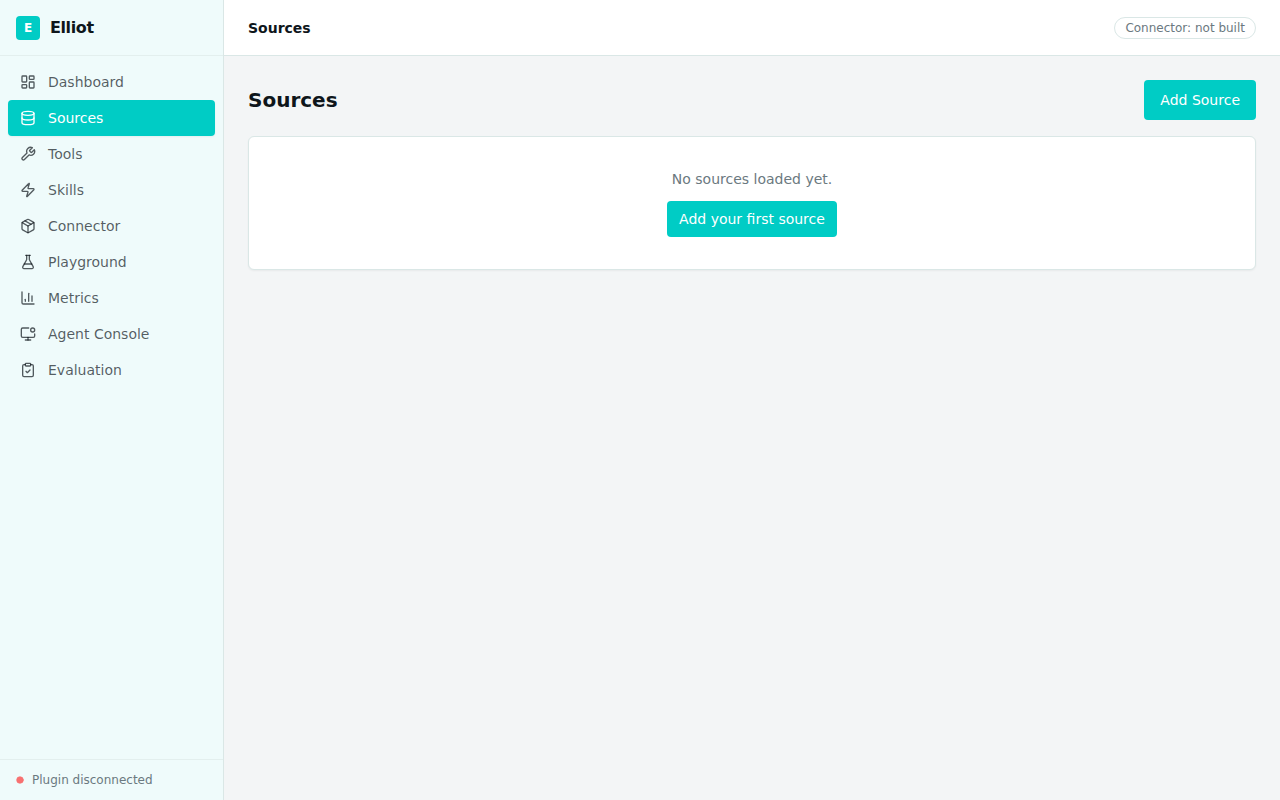
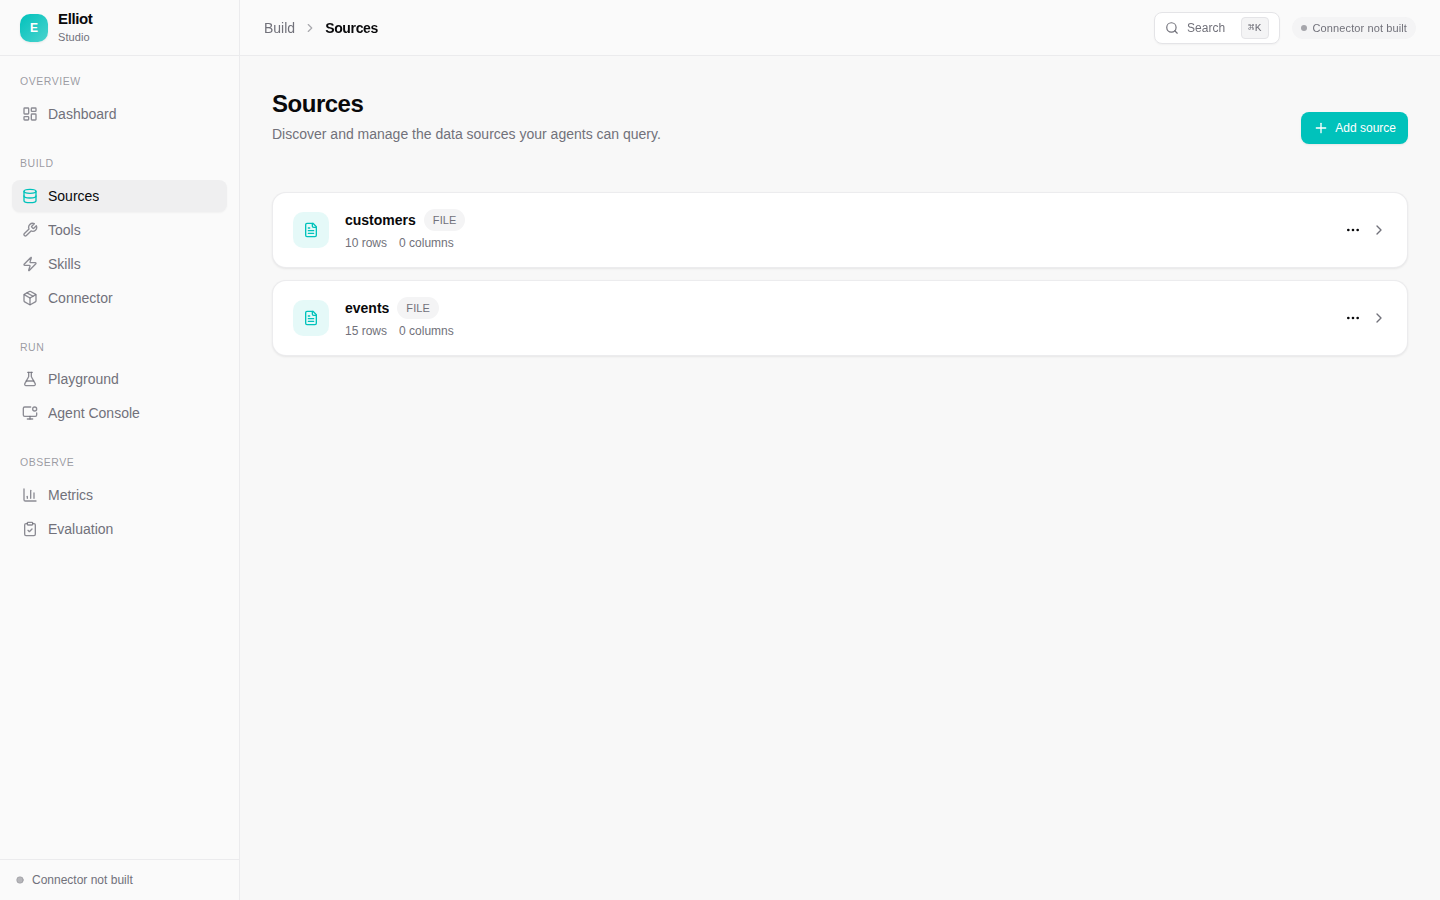
docs: refresh Studio screenshots + fix Connector/Skills page bugs
Captured fresh screenshots of every Studio page using the post-QA-fix
UI, with realistic state loaded (My SaaS Analytics connector built from
2 file sources, 3 tools, 1 multi-step skill, 7 audited tool runs):

  studio_01_dashboard           — overview + stat cards + getting started
  studio_02_sources             — collapsed list (customers, events)
  studio_02_sources_expanded    — schema chips for the customers source
  studio_03_tools               — 3 tools, sidebar list
  studio_03_tools_detail        — ToolEditor open on list_customers
  studio_04_skills              — plan_health_check · 2 steps
  studio_05_connector           — Identity, Tools/Skills selectors
  studio_06_playground          — list_customers run, result panel
  studio_07_metrics             — Total calls / error rate / per-tool table
  studio_08_agent_console       — live agent session view
  studio_09_evaluation          — Eval suites / Quality scan

Two follow-up bugs surfaced while capturing:

1. ConnectorPage threw "Cannot read properties of undefined (reading
   'length')" because elliot_list_skills returned summary objects
   ({id, name, step_count}) but the Studio's SkillDefinition type
   expects steps[]. Plugin now returns full SkillDefinitions (matching
   elliot_list_tools); step_count is still included as a convenience.

2. SkillsPage rendered "No skills defined" even when skills existed,
   because Array.isArray({skills:[...]}) is false — same envelope-
[…]

diff --git a/packages/studio/src/tests/unit/useSkills.test.tsx b/packages/studio/src/tests/unit/useSkills.test.tsx
@@ -1,0 +1,57 @@
+import { describe, it, expect, vi, beforeEach } from "vitest";
+import { renderHook, waitFor } from "@testing-library/react";
+import { QueryClient, QueryClientProvider } from "@tanstack/react-query";
+import type { ReactElement, ReactNode } from "react";
+
+const callToolMock = vi.fn();
+vi.mock("@/lib/mcp-client", () => ({
+  callTool: (...args: unknown[]) => callToolMock(...args),
+}));
+
+import { useSkills } from "@/hooks/useSkills";
+
+function wrapper(): { Wrapper: (p: { children: ReactNode }) => ReactElement } {
+  const qc = new QueryClient({ defaultOptions: { queries: { retry: false } } });
+  return {
+    Wrapper: ({ children }) => (
+      <QueryClientProvider client={qc}>{children}</QueryClientProvider>
+    ),
+  };
+}
+
+beforeEach(() => {
+  callToolMock.mockReset();
+});
+
+describe("useSkills (envelope-unwrap regression)", () => {
+  it("unwraps {skills:[...], count:N} into a plain array", async () => {
+    callToolMock.mockResolvedValueOnce({
+      skills: [
+        { id: "a", name: "skill_a", description: "", steps: [], input_parameters: [] },
+        { id: "b", name: "skill_b", description: "", steps: [], input_parameters: [] },
+      ],
+      count: 2,
+    });
+    const { Wrapper } = wrapper();
+    const { result } = renderHook(() => useSkills(), { wrapper: Wrapper });
+    await waitFor(() => expect(result.current.isSuccess).toBe(true));
+    expect(Array.isArray(result.current.data)).toBe(true);
+    expect(result.current.data).toHaveLength(2);
+  });
+
+  it("passes through plain arrays unchanged", async () => {
+    callToolMock.mockResolvedValueOnce([{ id: "x", name: "n", steps: [], input_parameters: [] }]);
+    const { Wrapper } = wrapper();
+    const { result } = renderHook(() => useSkills(), { wrapper: Wrapper });
+    await waitFor(() => expect(result.current.isSuccess).toBe(true));
+    expect(result.current.data).toHaveLength(1);
+  });
+
+  it("returns [] for unexpected shapes", async () => {
+    callToolMock.mockResolvedValueOnce({ something: "else" });
+    const { Wrapper } = wrapper();
+    const { result } = renderHook(() => useSkills(), { wrapper: Wrapper });
+    await waitFor(() => expect(result.current.isSuccess).toBe(true));
+    expect(result.current.data).toEqual([]);
+  });
+});

diff --git a/packages/studio/src/pages/ConnectorPage.tsx b/packages/studio/src/pages/ConnectorPage.tsx
@@ -1,5 +1,5 @@
 import { useState, useEffect } from "react";
-import { useQuery, useQueryClient } from "@tanstack/react-query";
+import { useQueryClient } from "@tanstack/react-query";
 import {
   AlertCircle,
   CheckCircle2,
@@ -21,6 +21,7 @@ import { EmptyState } from "@/components/ui/empty-state";
 import { Separator } from "@/components/ui/separator";
 import { callTool } from "@/lib/mcp-client";
 import { useTools } from "@/hooks/useTools";
+import { useSkills } from "@/hooks/useSkills";
 import { cn } from "@/lib/utils";
 import type { ToolDefinition, SkillDefinition, ConnectorConfig } from "@/types/api";
 
@@ -86,11 +87,8 @@ export default function ConnectorPage() {
   const { data: toolsRaw } = useTools();
   const tools = Array.isArray(toolsRaw) ? (toolsRaw as ToolDefinition[]) : [];
 
-  const { data: skillsRaw } = useQuery({
-    queryKey: ["skills"],
-    queryFn: () => callTool("elliot_list_skills", {}),
-  });
-  const skills = (skillsRaw as { skills?: SkillDefinition[] } | undefined)?.skills ?? [];
+  const { data: skillsRaw } = useSkills();
+  const skills = Array.isArray(skillsRaw) ? (skillsRaw as SkillDefinition[]) : [];
 
   const [selectedToolIds, setSelectedToolIds] = useState<Set<string>>(new Set());
   const [selectedSkillIds, setSelectedSkillIds] = useState<Set<string>>(new Set());

diff --git a/packages/studio/src/pages/SkillsPage.tsx b/packages/studio/src/pages/SkillsPage.tsx
@@ -1,5 +1,5 @@
 import { useState } from "react";
-import { useQuery, useQueryClient } from "@tanstack/react-query";
+import { useQueryClient } from "@tanstack/react-query";
 import { Plus, Zap } from "lucide-react";
 import { Button } from "@/components/ui/button";
 import { Badge } from "@/components/ui/badge";
@@ -7,17 +7,14 @@ import { Card } from "@/components/ui/card";
 import { EmptyState } from "@/components/ui/empty-state";
 import { PageHeader } from "@/components/ui/page-header";
 import { Skeleton } from "@/components/ui/skeleton";
-import { callTool } from "@/lib/mcp-client";
 import { SkillEditor } from "@/components/skills/SkillEditor";
+import { useSkills } from "@/hooks/useSkills";
 import { cn } from "@/lib/utils";
 import type { SkillDefinition } from "@/types/api";
 
 export default function SkillsPage() {
   const queryClient = useQueryClient();
-  const { data: skillsRaw, isLoading } = useQuery({
-    queryKey: ["skills"],
-    queryFn: () => callTool("elliot_list_skills", {}),
-  });
+  const { data: skillsRaw, isLoading } = useSkills();
   const skills = Array.isArray(skillsRaw) ? (skillsRaw as SkillDefinition[]) : [];
 
   const [selectedId, setSelectedId] = useState<string | null>(null);

diff --git a/packages/studio/src/hooks/useSkills.ts b/packages/studio/src/hooks/useSkills.ts
@@ -1,0 +1,22 @@
+import { useQuery } from "@tanstack/react-query";
+import { callTool } from "@/lib/mcp-client";
+
+interface SkillListEnvelope {
+  skills?: unknown[];
+  count?: number;
+}
+
+export function useSkills() {
+  return useQuery({
+    queryKey: ["skills"],
+    queryFn: async () => {
+      const raw = (await callTool("elliot_list_skills", {})) as
+        | SkillListEnvelope
+        | unknown[];
+      // elliot_list_skills returns { skills: [...], count: N }. Unwrap into a
+      // plain array so consumers can do `skills.map(...)` directly.
+      if (Array.isArray(raw)) return raw;
+      return Array.isArray(raw?.skills) ? raw.skills : [];
+    },
+  });
+}

diff --git a/packages/mcp-plugin/src/elliot_mcp_plugin/tools/skill_tools.py b/packages/mcp-plugin/src/elliot_mcp_plugin/tools/skill_tools.py
@@ -54,11 +54,17 @@ def register_skill_tools(mcp: FastMCP, session: ElliotSession) -> None:
 
     @mcp.tool()
     def elliot_list_skills() -> dict:  # type: ignore[type-arg]
-        """List all defined skills with id, name, and step count."""
+        """List all defined skills with their full definitions.
+
+        Each entry includes id, name, description, steps, and input_parameters
+        so the Studio and any other client can render the skill without an
+        extra elliot_get_skill round-trip. The convenience field step_count
+        is also included for clients that only need a summary.
+        """
         try:
             return {
                 "skills": [
-                    {"id": s.id, "name": s.name, "step_count": len(s.steps)}
+                    {**s.model_dump(), "step_count": len(s.steps)}
                     for s in session.registry.get_all_skills()
                 ],
                 "count": len(session.registry.get_all_skills()),
